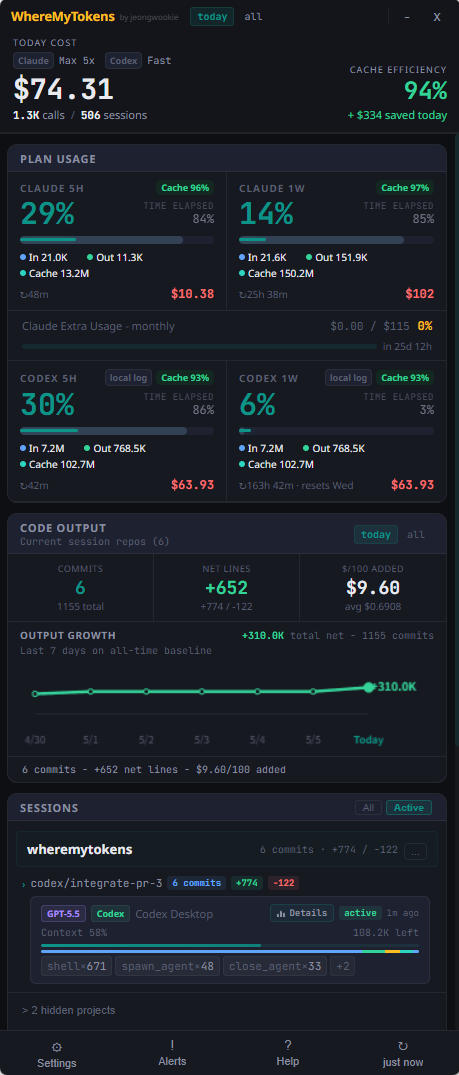
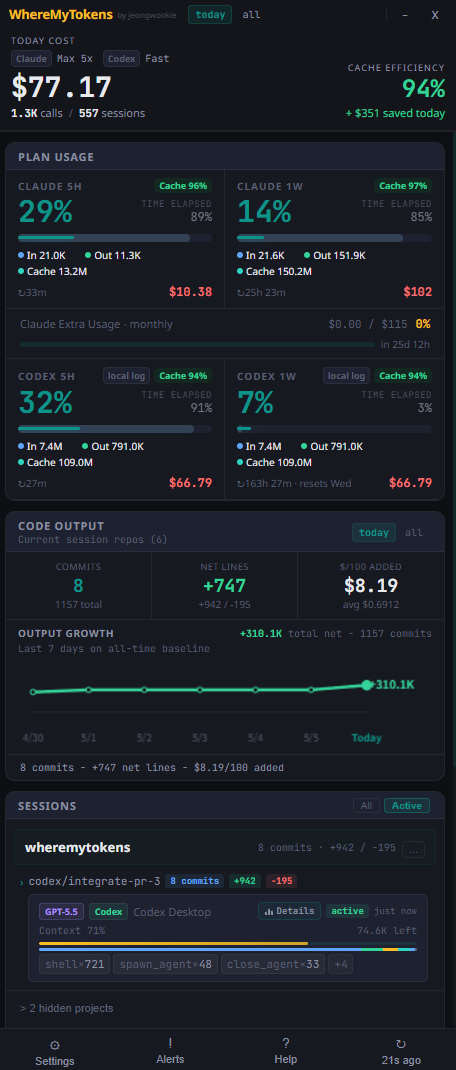
Improve output growth hover readability

diff --git a/src/renderer/components/CodeOutputCard.tsx b/src/renderer/components/CodeOutputCard.tsx
@@ -138,11 +138,12 @@ function OutputGrowth({
   C: ReturnType<typeof useTheme>;
 }) {
   const canvasRef = useRef<HTMLCanvasElement>(null);
-  const [hover, setHover] = useState<{ x: number; y: number; point: GrowthPoint } | null>(null);
+  const [hover, setHover] = useState<{ point: GrowthPoint } | null>(null);
   const points = buildGrowthPoints(data, total);
   const totalNet = points[points.length - 1]?.totalNet ?? (total.added - total.removed);
   const progressColor = totalNet >= 0 ? C.active : C.barRed;
   const hasData = points.length > 0 && total.commits > 0;
+  const detailPoint = hover?.point ?? points[points.length - 1] ?? null;
 
   useEffect(() => {
     if (!hasData) return;
@@ -238,7 +239,7 @@ function OutputGrowth({
     const right = 52;
     const plotW = W - left - right;
     const index = Math.max(0, Math.min(points.length - 1, Math.round(((x - left) / Math.max(plotW, 1)) * (points.length - 1))));
-    setHover({ x: Math.max(8, Math.min(W - 118, x + 8)), y: 8, point: points[index] });
+    setHover({ point: points[index] });
   }
 
   return (
@@ -261,27 +262,27 @@ function OutputGrowth({
           onMouseLeave={() => setHover(null)}
           style={{ width: '100%', display: 'block' }}
         />
-        {hover && (
-          <div style={{
-            position: 'absolute',
-            left: hover.x,
-            top: hover.y,
-            pointerEvents: 'none',
-            background: C.bgElev,
-            border: `1px solid ${C.border}`,
-            borderRadius: 6,
-            padding: '5px 7px',
-            boxShadow: '0 8px 20px rgba(0,0,0,0.25)',
-            fontFamily: C.fontMono,
-            fontSize: 10,
-            color: C.text,
-            lineHeight: 1.35,
-            zIndex: 2,
-          }}>
-            <div style={{ color: C.textMuted }}>{hover.point.label}</div>
-            <div style={{ color: progressColor, fontWeight: 700 }}>{fmtSigned(hover.point.totalNet)} total</div>
-            <div>{fmtSigned(hover.point.dayNet)} day - {hover.point.commits} commit{hover.point.commits === 1 ? '' : 's'}</div>
-          </div>
+      </div>
+      <div style={{
+        minHeight: 16,
+        marginTop: 2,
+        display: 'flex',
+        alignItems: 'center',
+        gap: 6,
+        overflow: 'hidden',
+        color: C.textDim,
+        fontFamily: C.fontMono,
+        fontSize: 9,
+        whiteSpace: 'nowrap',
+      }}>
+        {detailPoint && (
+          <>
+            <span style={{ color: C.textMuted }}>{detailPoint.label}</span>
+            <span style={{ color: progressColor, fontWeight: 700 }}>{fmtSigned(detailPoint.totalNet)} total</span>
+            <span>
+              {fmtSigned(detailPoint.dayNet)} day · {detailPoint.commits} commit{detailPoint.commits === 1 ? '' : 's'}
+            </span>
+          </>
         )}
       </div>
     </div>
